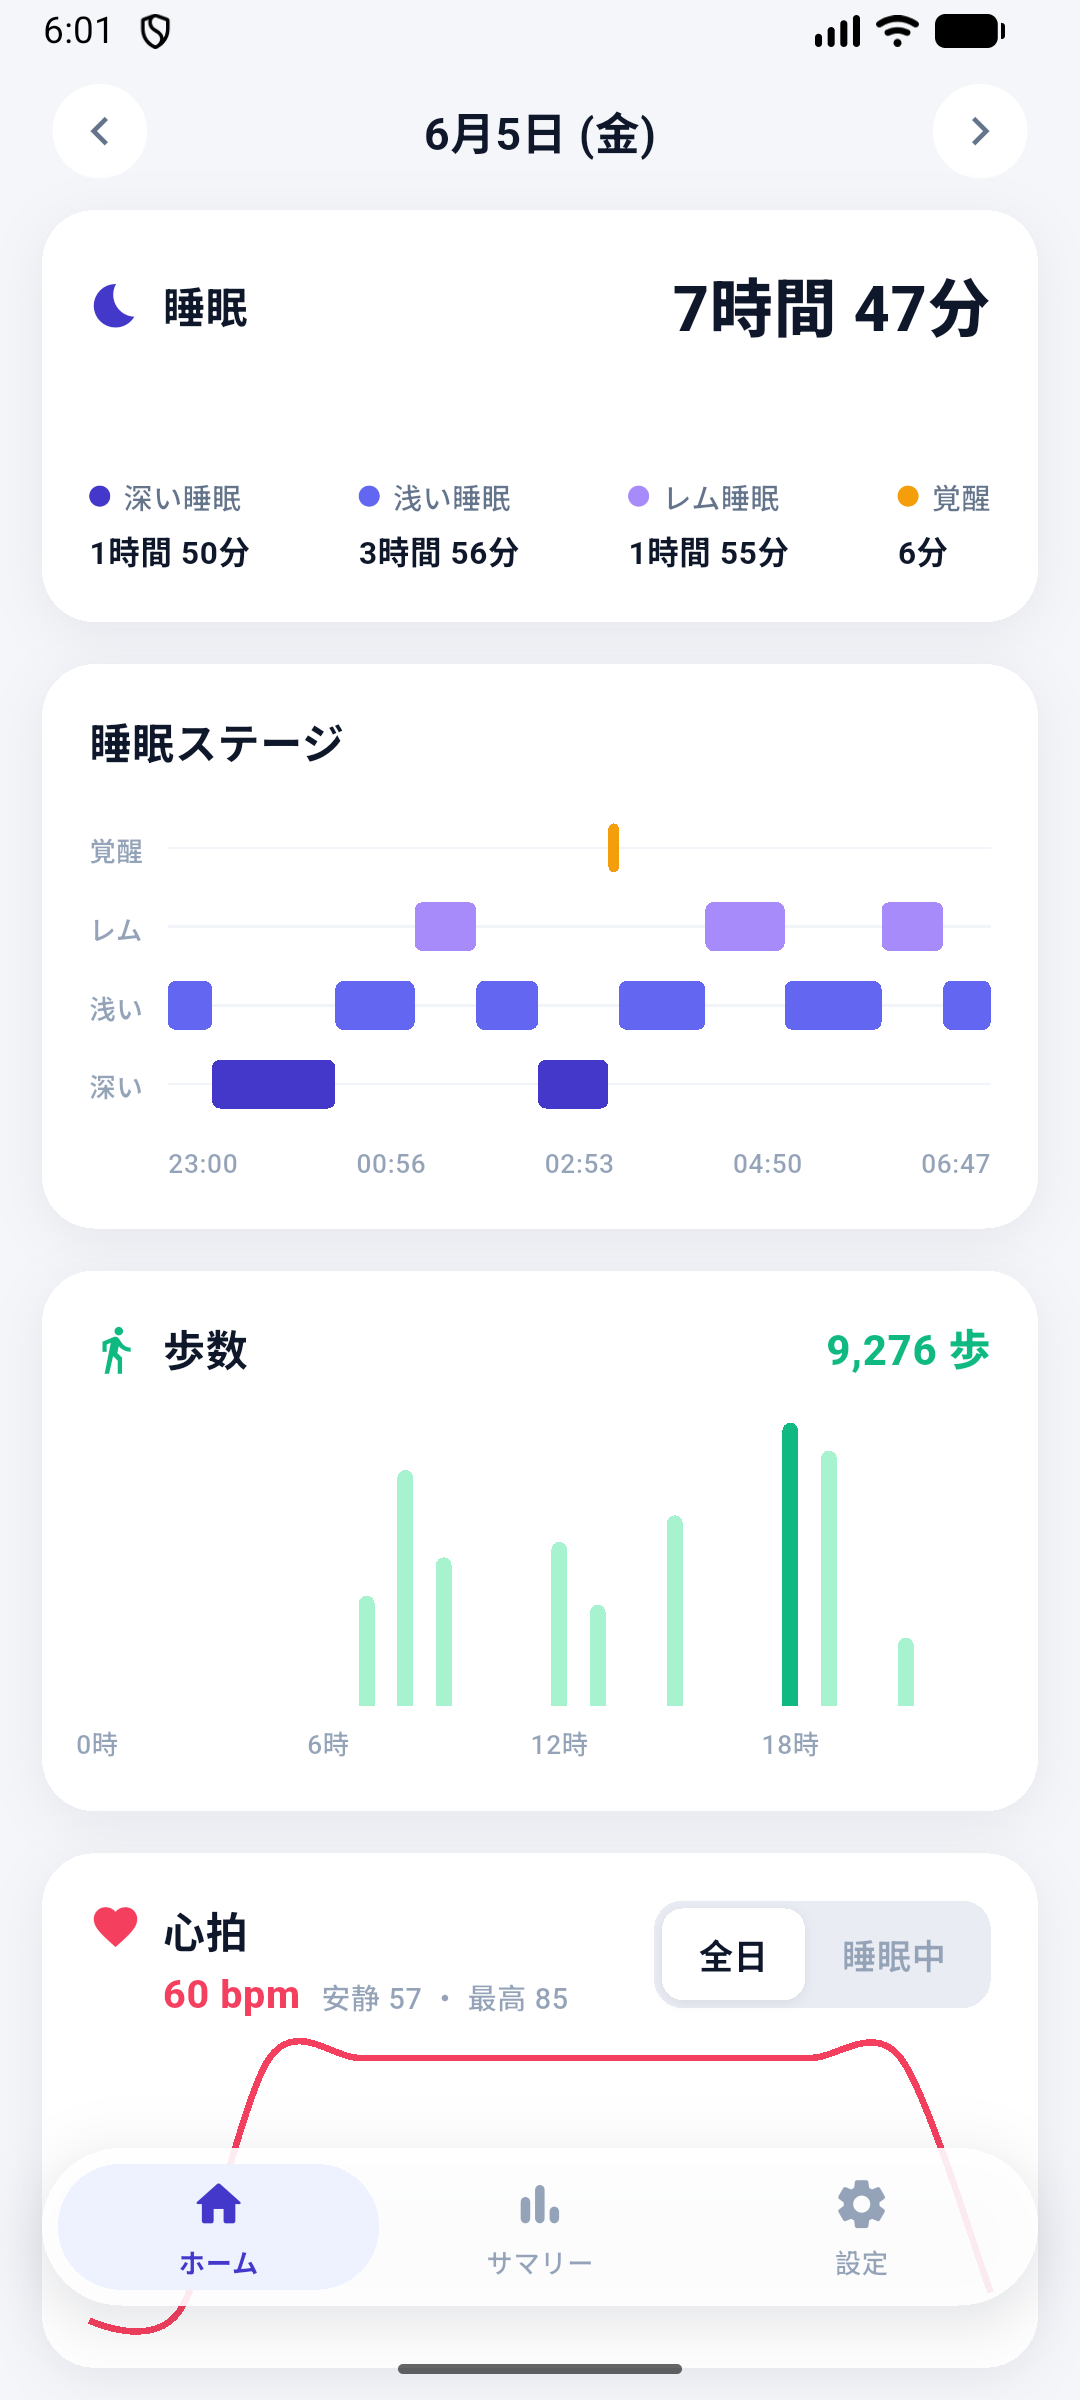
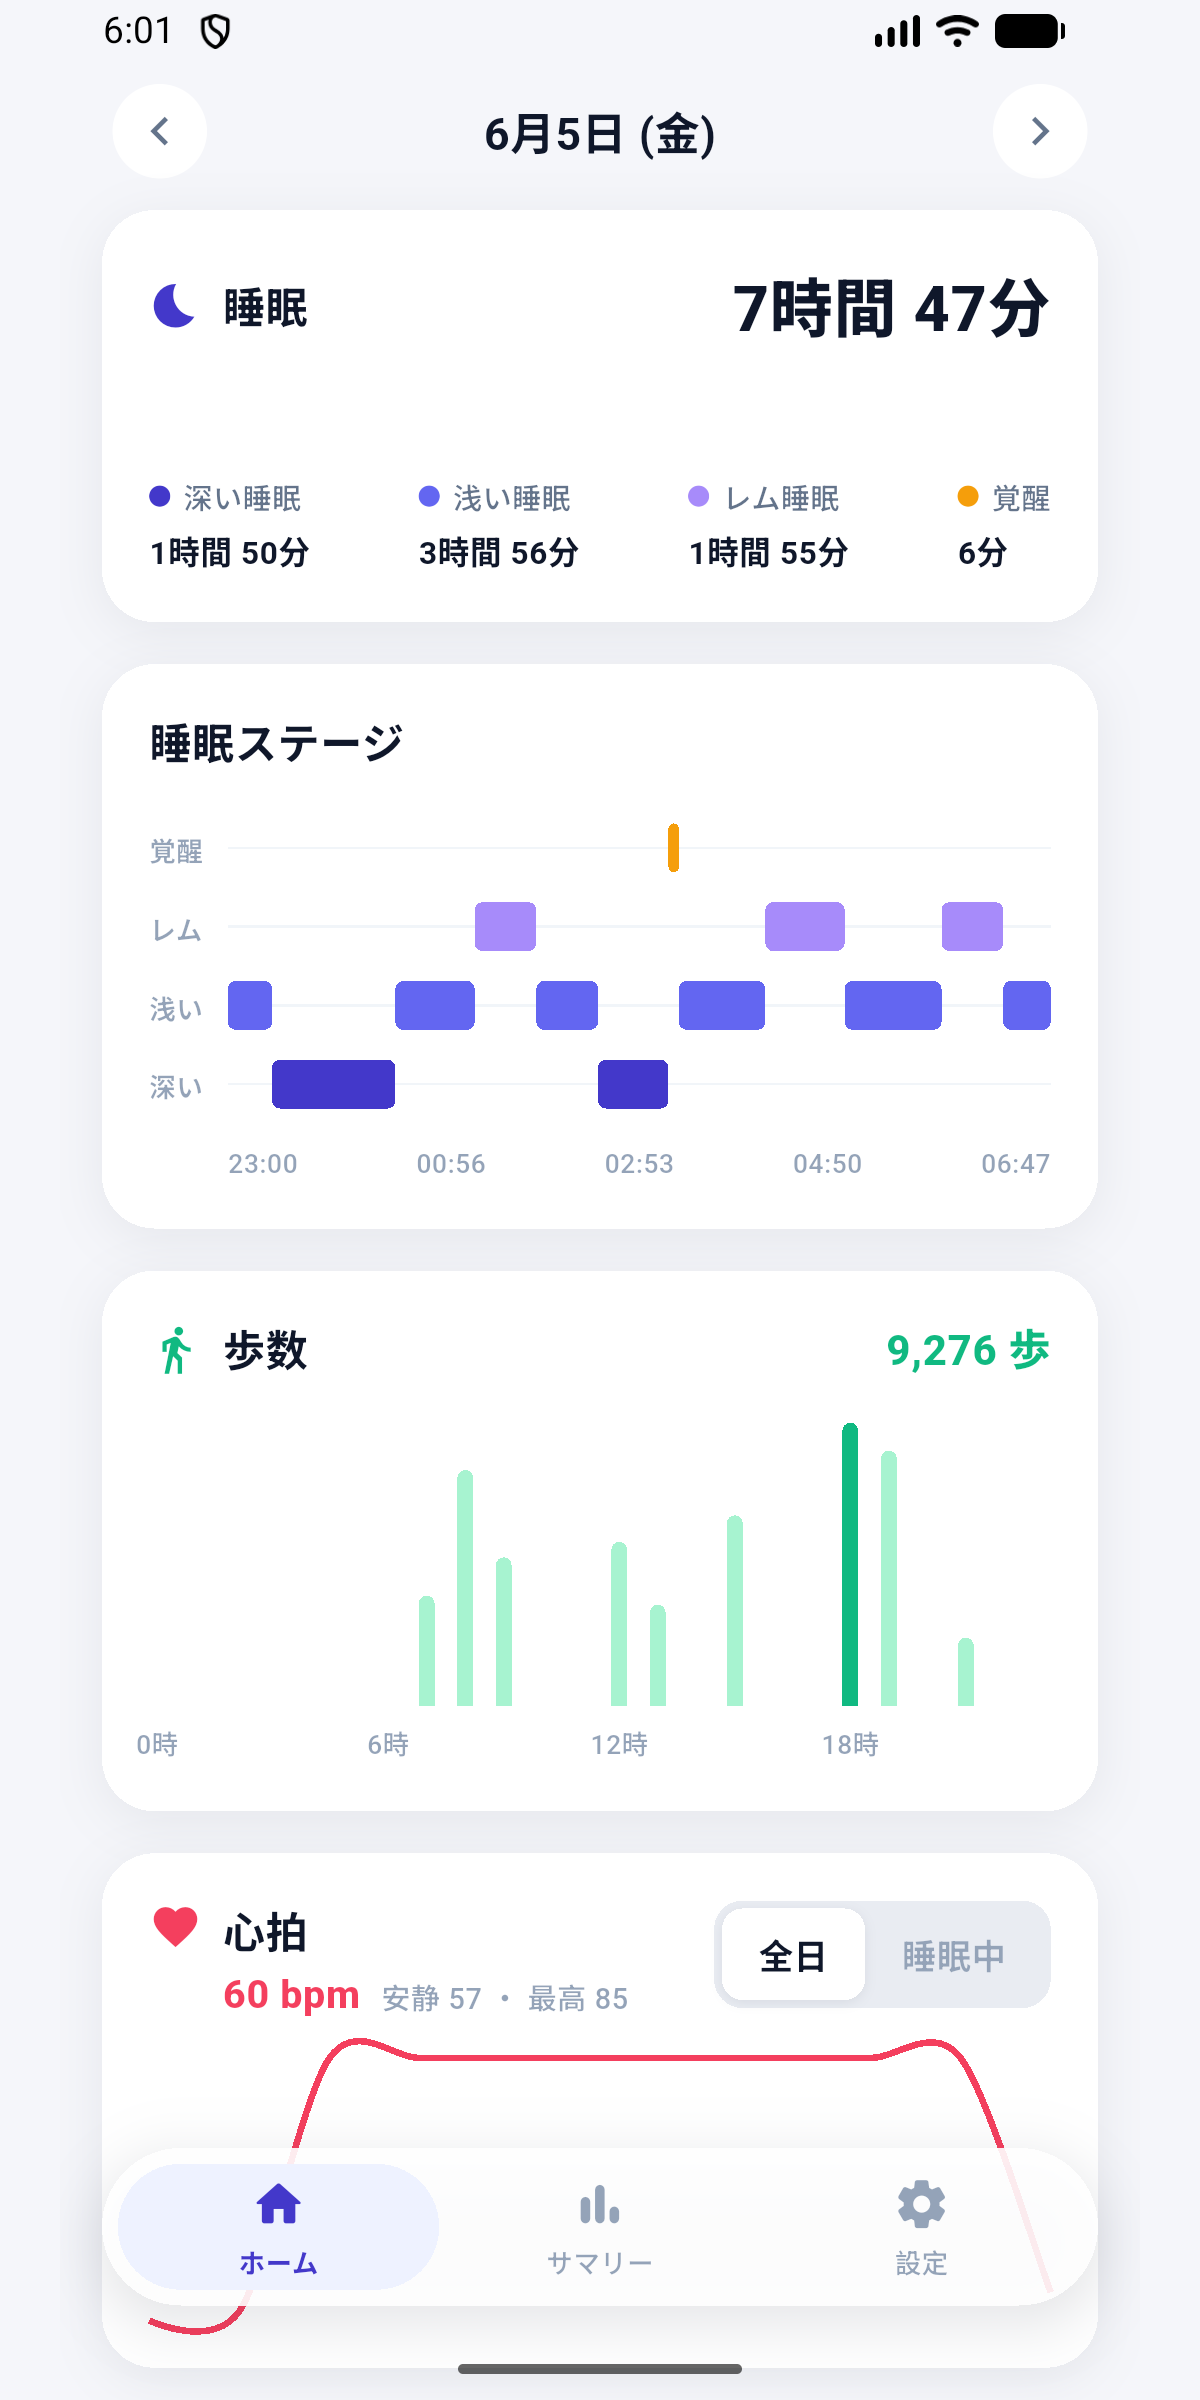
fix: ストア素材 codex P1 対応 (Play 準拠化)
- アプリアイコンを 512x512 へ (Play ストアアイコン規定)
- フィーチャーグラフィックのアルファ除去 (24bit RGB, 1024x500)
- スクリーンショットを縦横比 2:1 以内へ (1080x2400→1200x2400 左右パディング)+アルファ除去
- listing.md: Data safety は『収集なし』(Play 定義=端末外送信。本アプリは端末内処理で
  送信なし)へ修正。ポリシー/#44 と整合
- tool/prepare_store_assets.dart で整形、README に手順反映

diff --git a/tool/prepare_store_assets.dart b/tool/prepare_store_assets.dart
@@ -1,0 +1,60 @@
+// Google Play 準拠へストア素材を整形するツール (#47)。
+//
+//   dart run tool/prepare_store_assets.dart
+//
+// - app_icon: 512x512 (Play ストアアイコン規定)
+// - feature_graphic: 24bit RGB (アルファ除去, 1024x500)
+// - screenshots: 縦横比を 2:1 以内へ (1080x2400 → 1200x2400 に左右パディング), RGB
+import 'dart:io';
+
+import 'package:image/image.dart' as img;
+
+const String bg = '#F5F6FA';
+
+img.ColorRgb8 _hex(String h) => img.ColorRgb8(
+  int.parse(h.substring(1, 3), radix: 16),
+  int.parse(h.substring(3, 5), radix: 16),
+  int.parse(h.substring(5, 7), radix: 16),
+);
+
+void main() {
+  // 1) ストアアイコン 512x512。
+  final img.Image icon = img.decodePng(
+    File('docs/store/app_icon.png').readAsBytesSync(),
+  )!;
+  final img.Image icon512 = img.copyResize(
+    icon,
+    width: 512,
+    height: 512,
+    interpolation: img.Interpolation.average,
+  );
+  File('docs/store/app_icon.png').writeAsBytesSync(img.encodePng(icon512));
+
+  // 2) フィーチャーグラフィックのアルファ除去 (24bit RGB)。
+  final img.Image fg = img.decodePng(
+    File('docs/store/feature_graphic.png').readAsBytesSync(),
+  )!;
+  File(
+    'docs/store/feature_graphic.png',
+  ).writeAsBytesSync(img.encodePng(fg.convert(numChannels: 3)));
+
+  // 3) スクリーンショットを 2:1 以内へパディング + RGB。
+  final Directory dir = Directory('docs/store/screenshots');
+  final img.ColorRgb8 pad = _hex(bg);
+  for (final FileSystemEntity e in dir.listSync()) {
+    if (!e.path.endsWith('.png')) continue;
+    final img.Image s = img.decodePng(File(e.path).readAsBytesSync())!;
+    // 長辺/短辺 <= 2 になるよう短辺(幅)を拡張。
+    final int targetW = (s.height / 2).ceil();
+    final int w = targetW > s.width ? targetW : s.width;
+    final img.Image canvas = img.Image(
+      width: w,
+      height: s.height,
+      numChannels: 3,
+    );
+    img.fill(canvas, color: pad);
+    img.compositeImage(canvas, s, dstX: ((w - s.width) / 2).round());
+    File(e.path).writeAsBytesSync(img.encodePng(canvas));
+  }
+  stdout.writeln('ストア素材を Play 準拠へ整形しました');
+}

diff --git a/docs/store/listing.md b/docs/store/listing.md
@@ -46,7 +46,9 @@ https://takashi-otomo.github.io/life_on_graph/privacy-policy.html
 tekinananika@gmail.com
 
 ## データセーフティ(申告の要点)
-- データ収集: ヘルスデータ(睡眠・歩数・心拍)を端末内処理のために取得
-- データ共有: なし(第三者送信なし)
-- 保存: 端末内のみ・暗号化
-- 削除: アプリ内から削除可能
+- **データ収集: なし**。Google Play の「収集 (collection)」は端末外(サーバー等)への
+  送信を指す。本アプリは睡眠・歩数・心拍を **端末内でのみ処理し送信しない** ため、
+  Data safety では「収集しない」を申告する(プライバシーポリシー / ヘルス申告 #44 と整合)。
+- データ共有: なし(第三者提供・送信なし)
+- 保存: 端末内のみ・AES-256 暗号化
+- 削除: アプリ内「すべてのデータを削除」から可能
